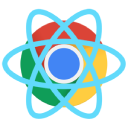
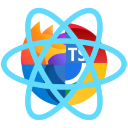
feat: cross-browser support (beta) (#38)
* feat: switch chrome to browser namespace

* build(firefox): firefox support manifest v2 (beta)

* fix: confusing namings

* chore: renew extension icon

* docs: update README.md

diff --git a/utils/scripts/mv3ToMv2Build.ts b/utils/scripts/mv3ToMv2Build.ts
@@ -1,0 +1,42 @@
+import * as fs from 'fs-extra';
+import * as path from 'path';
+
+const BASE_OUT_DIR = 'dist';
+const baseOutDir = path.resolve(BASE_OUT_DIR);
+
+if (!fs.existsSync(baseOutDir)) {
+  throw Error(`${BASE_OUT_DIR} dir does not exist. Please run base build first.`);
+}
+
+const outDir = `${path.dirname(path.basename(baseOutDir))}/${BASE_OUT_DIR}_firefox`;
+
+fs.copySync(baseOutDir, outDir);
+
+const manifestPath = path.resolve(outDir, 'manifest.json');
+const manifest = JSON.parse(fs.readFileSync(manifestPath, 'utf-8')); // TODO: typing
+
+manifest.manifest_version = 2;
+
+fs.writeFileSync(
+  `${outDir}/background.html`,
+  '<script type="module" src="./service-worker-loader.js"></script>'
+);
+manifest.background = { page: 'background.html' };
+
+manifest.browser_action = manifest.action;
+delete manifest.action;
+
+for (const permission of manifest.host_permissions) {
+  manifest.permissions.push(permission === '<all_urls>' ? '*://*/*' : permission);
+}
+delete manifest.host_permissions;
+
+const tempResources = [];
+for (const obj of manifest.web_accessible_resources) {
+  for (const resource of obj.resources) {
+    tempResources.push(resource);
+  }
+}
+manifest.web_accessible_resources = tempResources;
+
+fs.writeFileSync(manifestPath, JSON.stringify(manifest, null, 2));

diff --git a/src/background/background.spec.ts b/src/background/background.spec.ts
@@ -1,16 +1,16 @@
-import { chrome } from 'jest-chrome';
+import { chrome as browser } from 'jest-chrome';
 
 describe('background', () => {
   test('chrome api events', () => {
     const listenerSpy = jest.fn();
     const sendResponseSpy = jest.fn();
 
-    chrome.runtime.onMessage.addListener(listenerSpy);
+    browser.runtime.onMessage.addListener(listenerSpy);
 
     expect(listenerSpy).not.toBeCalled();
-    expect(chrome.runtime.onMessage.hasListeners()).toBe(true);
+    expect(browser.runtime.onMessage.hasListeners()).toBe(true);
 
-    chrome.runtime.onMessage.callListeners(
+    browser.runtime.onMessage.callListeners(
       { greeting: 'hello' }, // message
       {}, // MessageSender object
       sendResponseSpy // SendResponse function

diff --git a/src/background/index.ts b/src/background/index.ts
@@ -1,3 +1,5 @@
+import browser from 'webextension-polyfill';
+
 import store from '../app/store';
 import { isDev } from '../shared/utils';
 
@@ -6,11 +8,11 @@ store.subscribe(() => {
 });
 
 // show welcome page on new install
-chrome.runtime.onInstalled.addListener(async (details) => {
+browser.runtime.onInstalled.addListener(async (details) => {
   if (details.reason === 'install') {
     //show the welcome page
-    const url = chrome.runtime.getURL(isDev ? 'src/welcome/welcome.html' : 'welcome.html'); // TODO: better approach
-    await chrome.tabs.create({ url });
+    const url = browser.runtime.getURL(isDev ? 'src/welcome/welcome.html' : 'welcome.html'); // TODO: better approach
+    await browser.tabs.create({ url });
   }
 });
 

diff --git a/src/setupTests.ts b/src/setupTests.ts
@@ -2,4 +2,4 @@ import { chrome } from 'jest-chrome';
 
 import '@testing-library/jest-dom';
 
-Object.assign(global, { chrome: chrome });
+Object.assign(global, { chrome: chrome, browser: chrome });

diff --git a/README.md b/README.md
@@ -9,7 +9,7 @@
   </h2>
 </div>
 
-<p align="center">A web extension (Manifest V3) starter kit with hot reload support, built with React, Typescript, Redux, Vite, ESLint, Prettier, TailwindCSS, Jest and more! </p>
+<p align="center">A cross-platform (Chrome, Firefox, Edge, Opera, Brave) web browser extension (Manifest V3 and Manifest V2) starter kit with hot reload support, built with React, Typescript, Redux, Vite, ESLint, Prettier, TailwindCSS, Jest and more! </p>
 <hr />
 
 <div align="center" >
@@ -37,9 +37,11 @@
 ## Features
 
 - **Instant HMR** (hot reload)[^1]
+- Write once run on any browser
 - Global Redux support with persist option. Effortless communication between content, background, popup, options, and more pages.
 - Provides a basic content example and popup, options, and welcome pages with all React
 - Latest Manifest V3 support
+- Manifest V2 support (beta)
 - Dynamic manifest.json
 - Includes ESLint configured to work with TypeScript and Prettier
 - Includes stylelint and commitlint configured
@@ -62,6 +64,12 @@
 - nano-staged
 
 [^1]: While fully supported and stable in most cases, rarely hard reloading is recommended.
+
+## Browser Support
+
+| [![Chrome](https://raw.github.com/alrra/browser-logos/master/src/chrome/chrome_48x48.png)](/) | [![Firefox](https://raw.github.com/alrra/browser-logos/master/src/firefox/firefox_48x48.png)](/) | [![Edge](https://raw.github.com/alrra/browser-logos/master/src/edge/edge_48x48.png)](/) | [![Opera](https://raw.github.com/alrra/browser-logos/master/src/opera/opera_48x48.png)](/) | [![Brave](https://raw.github.com/alrra/browser-logos/master/src/brave/brave_48x48.png)](/) |
+| --------------------------------------------------------------------------------------------- | ------------------------------------------------------------------------------------------------ | --------------------------------------------------------------------------------------- | ------------------------------------------------------------------------------------------ | ------------------------------------------------------------------------------------------ |
+| ✔                                                                                             | ✔ (Beta)                                                                                         | ✔                                                                                       | ✔                                                                                          | ✔                                                                                          |
 
 ## Quick Start
 
@@ -97,12 +105,18 @@ Then run the following:
 - `yarn dev` to start the development server.
 - `yarn build` to build an unpacked extension.
 
-- **Load extension in browser**
+- **Load extension in Chrome (Chromium)**
 
   - Go to the browser address bar and type `chrome://extensions`
   - Check the `Developer Mode` button to enable it.
   - Click on the `Load Unpacked Extension` button.
   - Select your `dist` folder in the project root.
+
+- **Load extension in Firefox**
+
+  - Go to the browser address bar and type `about://debugger`
+  - Click on the `Load Temporary Add-on` button.
+  - Select your `dist_firefox` folder in the project root.
 
 ### Available Commands
 
